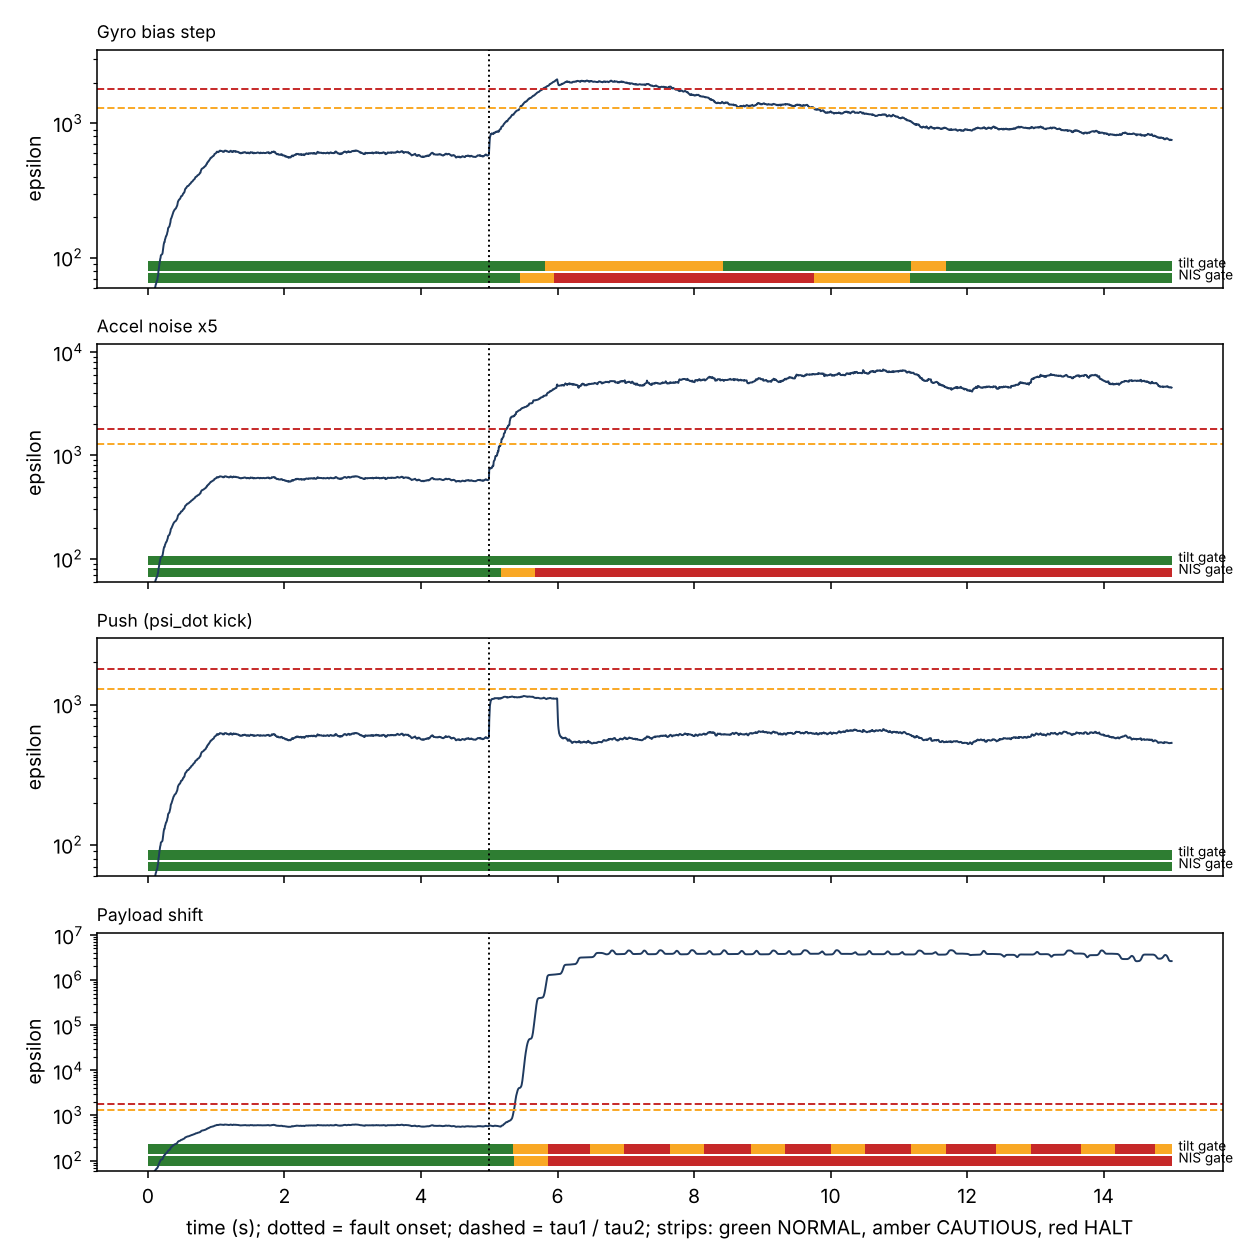
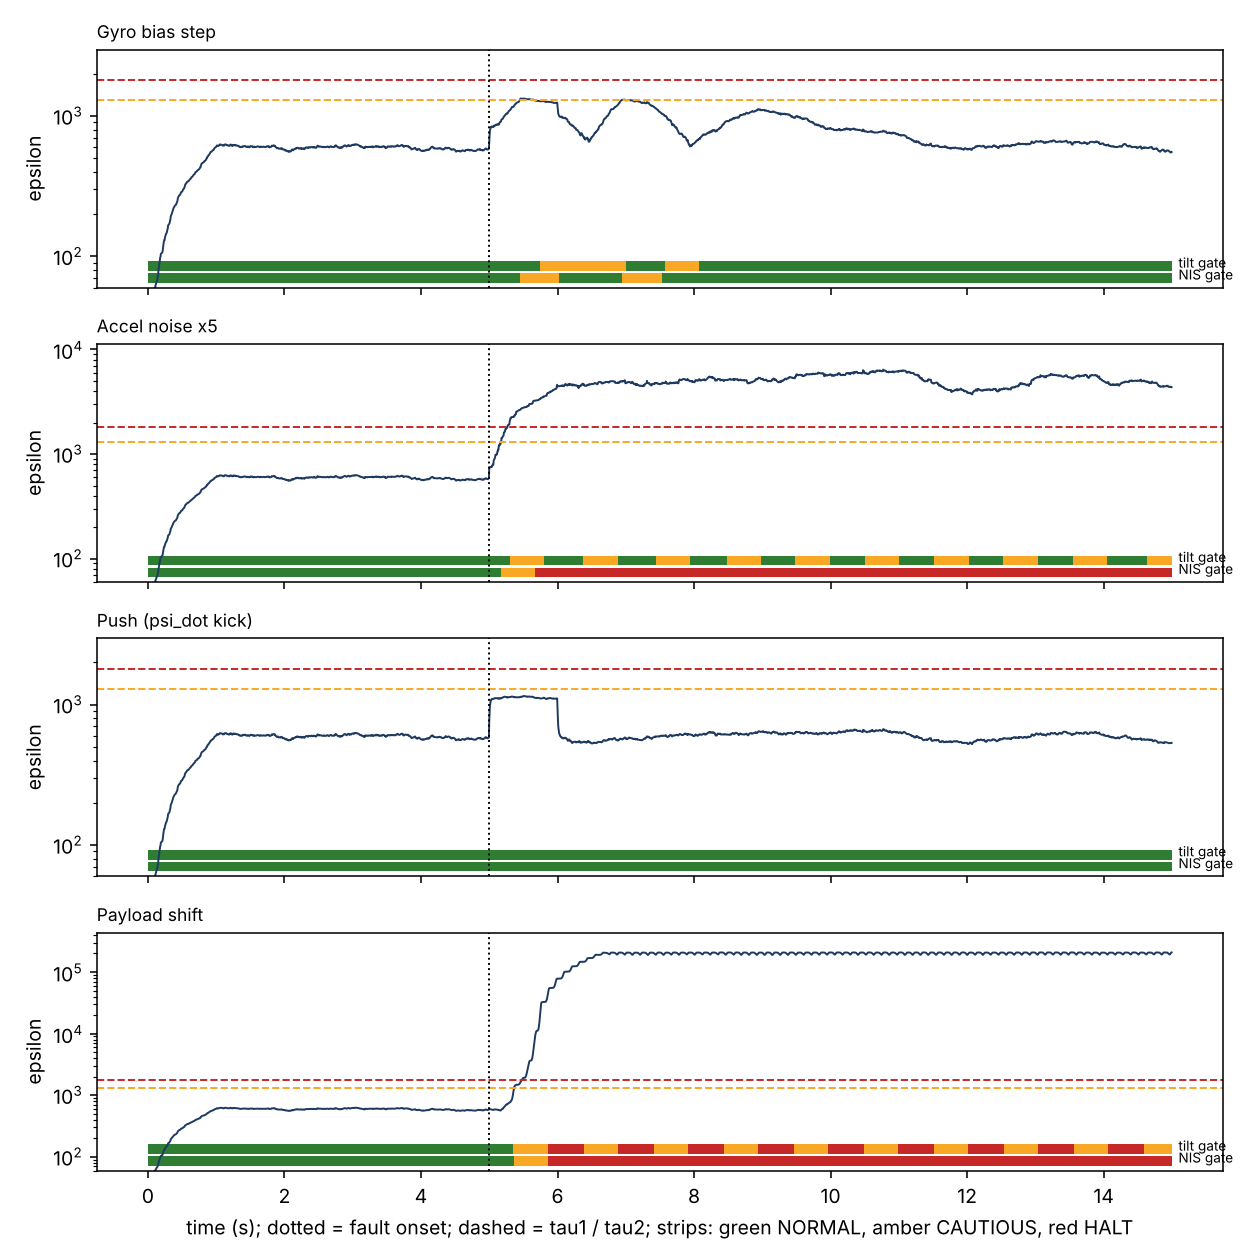
Firmware: survive payload shift via softer HALT gains + KF Q inflation; retarget ESP32-S3
Claude-Session: https://claude.ai/code/session_01JodAvshEbjjGA2GQJRYdMz

diff --git a/firmware/include/echo_core.hpp b/firmware/include/echo_core.hpp
@@ -22,6 +22,7 @@ constexpr int NY = 3;  // [theta_enc, psi_dot_gyro, psi_acc]
 struct Kalman {
   double x[NX] = {0, 0, 0, 0, 0};
   double P[NX * NX];
+  double q_scale = 1.0;  // process-noise inflation (fallback: trust sensors over the model)
 
   Kalman() {
     for (int i = 0; i < NX * NX; ++i) P[i] = ECHO_P0[i];
@@ -43,7 +44,7 @@ struct Kalman {
       }
     for (int i = 0; i < NX; ++i)
       for (int j = 0; j < NX; ++j) {
-        double s = ECHO_Q[i * NX + j];
+        double s = q_scale * ECHO_Q[i * NX + j];
         for (int k = 0; k < NX; ++k) s += AP[i * NX + k] * ECHO_AD[j * NX + k];
         Pn[i * NX + j] = s;
       }
@@ -285,9 +286,12 @@ struct Sim {
     tilt_gate.step(kf.x[1]);
     if (std::fabs(robot.x[1]) > ECHO_FALL_PSI) fallen = true;  // motors off on fall only
     // Gate -> control (CLAUDE.md section 10): NORMAL full speed, CAUTIOUS x0.4 with the
-    // softer-Q gain set, HALT speed 0 (keeps balancing in place). Uses the estimate x_hat.
+    // softer-Q gain set, HALT speed 0 (keeps balancing in place, softer gains). Uses the estimate x_hat.
     const Mode m = nis_gate.mode;
-    const double *K5 = (m == Mode::CAUTIOUS) ? ECHO_K5_CAUTIOUS : ECHO_K5_NOMINAL;
+    kf.q_scale = (m == Mode::NORMAL) ? 1.0 : ECHO_FALLBACK_Q_SCALE;  // see FallbackParams
+    // CAUTIOUS and HALT both use the softer-Q gain set: it is stable in the sampled 200 Hz loop on the
+    // nominal AND payload-shifted plants (spectral radius 0.9987 / 0.9993), the nominal set is not (1.0082).
+    const double *K5 = (m == Mode::NORMAL) ? ECHO_K5_NOMINAL : ECHO_K5_CAUTIOUS;
     speed_ref = (m == Mode::NORMAL) ? ECHO_SPEED_REF_NOMINAL
               : (m == Mode::CAUTIOUS ? ECHO_SPEED_REF_NOMINAL * ECHO_CAUTIOUS_SPEED_SCALE : 0.0);
     const double e[5] = {kf.x[0] - theta_ref, kf.x[1], kf.x[2] - speed_ref, kf.x[3], z_int};

diff --git a/tests/test_firmware_core.py b/tests/test_firmware_core.py
@@ -119,7 +119,7 @@ def test_gate_mode_changes_the_control(scenarios_bin):
     """Section 10 gate -> control: NORMAL tracks the nominal speed ref, HALT commands 0
     while the robot keeps balancing (does not fall)."""
     ref = default_run_params().corridor_theta_dot_ref_nominal
-    d = _scenario(scenarios_bin, "gyro_bias", 1)
+    d = _scenario(scenarios_bin, "accel_noise", 1)
     t, mode, speed_ref = d[:, 0], d[:, 3], d[:, 8]
     assert np.allclose(speed_ref[mode == 0], ref)
     halt = mode == 2
@@ -127,3 +127,17 @@ def test_gate_mode_changes_the_control(scenarios_bin):
     assert d[:, 7].max() == 0, "HALT must keep balancing, not fall"
     # wheels actually follow the reference in NORMAL (true theta_dot, last 2 s before onset)
     assert abs(d[(t > 3) & (t < 5), 9].mean() - ref) < 0.5 * ref
+
+
+@pytest.mark.parametrize("seed", [1, 2, 3, 4, 5])
+def test_payload_shift_is_detected_and_survived(scenarios_bin, seed):
+    """Payload shift (true plant M+1.0 kg, L+0.1 m, nominal KF): the nominal-model estimator
+    destabilises the loop, the gate trips before tilt reaches 1 deg, and the fallback
+    (softer gains + inflated KF Q, FallbackParams) keeps the robot upright."""
+    d = _scenario(scenarios_bin, "payload", seed)
+    t, mode = d[:, 0], d[:, 3]
+    hit = np.nonzero((mode > 0) & (t >= 5.0))[0]
+    assert len(hit) and t[hit[0]] - 5.0 < 1.0
+    assert abs(d[:hit[0] + 1, 5]).max() < np.deg2rad(1.0), "gate must trip before tilt is visible"
+    assert d[:, 7].max() == 0, "robot must not fall"
+    assert abs(d[:, 5]).max() < np.deg2rad(15.0)

diff --git a/sim/params.py b/sim/params.py
@@ -414,3 +414,24 @@ def default_speed_servo_params_cautious() -> SpeedServoParams:
     "Design decision 5" for the full pole comparison.
     """
     return SpeedServoParams(Q_theta=0.2, Q_psi=200.0, Q_theta_dot=0.2, Q_psi_dot=0.2, Q_integral=2.0, R=1e2)
+
+
+@dataclass(frozen=True)
+class FallbackParams:
+    """Estimator behaviour once the NIS gate leaves NORMAL (firmware).
+
+    The KF always uses the nominal model (CLAUDE.md section 8), so under a
+    plant mismatch such as the payload shift its estimate-based feedback
+    loop goes unstable even though true-state feedback is stable. On leaving
+    NORMAL the KF process noise Q is multiplied by q_inflation so it trusts
+    the sensors over its (now wrong) model. Empirical: x10 recovers (max
+    |psi| ~9.7 deg), x100 recovers (~6.9 deg), x1000 and above overshoot and
+    fall -- see firmware/README.md. Used by firmware only; sim/run.py does
+    not apply it yet.
+    """
+
+    q_inflation: float
+
+
+def default_fallback_params() -> FallbackParams:
+    return FallbackParams(q_inflation=100.0)

diff --git a/firmware/src/main.cpp b/firmware/src/main.cpp
@@ -1,4 +1,4 @@
-// Echo Balancer -- Wokwi firmware: NIS confidence gate on an ESP32.
+// Echo Balancer -- Wokwi firmware: NIS confidence gate on an ESP32-S3.
 //
 // Runs the Kalman filter + NIS + NORMAL/CAUTIOUS/HALT gate (and the tilt
 // baseline gate) at 200 Hz. The "robot" is a virtual one (echo::VirtualRobot:
@@ -17,10 +17,10 @@
 #include "echo_core.hpp"
 
 // ---- Pin map (matches firmware/diagram.json) ------------------------------
-static const int PIN_SDA = 21, PIN_SCL = 22;
-static const int PIN_LED_NORMAL = 25, PIN_LED_CAUTIOUS = 26, PIN_LED_HALT = 27;
-static const int PIN_BUZZER = 14;
-static const int PIN_ENC_CLK = 18, PIN_ENC_DT = 19;
+static const int PIN_SDA = 8, PIN_SCL = 9;  // ESP32-S3 default I2C0
+static const int PIN_LED_NORMAL = 4, PIN_LED_CAUTIOUS = 5, PIN_LED_HALT = 6;
+static const int PIN_BUZZER = 7;
+static const int PIN_ENC_CLK = 15, PIN_ENC_DT = 16;
 
 // ---- MPU6050 (the MPU6050 half of the GY-87) ------------------------------
 static const uint8_t MPU_ADDR = 0x68, MPU_PWR_MGMT_1 = 0x6B, MPU_ACCEL_XOUT_H = 0x3B;

diff --git a/firmware/include/echo_params.h b/firmware/include/echo_params.h
@@ -24,6 +24,7 @@ static const double ECHO_PUSH_KICK = 0.1;  // rad/s psi_dot kick
 static const double ECHO_GYRO_BIAS_STEP = 0.05;  // rad/s
 static const double ECHO_ACCEL_NOISE_MULT = 5.0;
 static const double ECHO_SPEED_REF_NOMINAL = 0.3;  // rad/s wheel-speed reference in NORMAL
+static const double ECHO_FALLBACK_Q_SCALE = 100.0;  // KF Q multiplier outside NORMAL
 // Row-major.  x = [theta, psi, theta_dot, psi_dot, b_g]; y = [theta_enc, psi_dot_gyro, psi_acc]
 static const double ECHO_AD[25] = {1, -0.0033805431039577909, 0.0035893013138028683, 0.001404457403861505, 0, 0, 1.0025315884032229, 0.00068011121046463959, 0.0043244004439597274, 0, 0, -1.0919227229836423, 0.52783408476605143, 0.46878537212999133, 0, 0, 0.88732250043257888, 0.22768554168137237, 0.77484604672185031, 0, 0, 0, 0, 0, 1};
 static const double ECHO_BD[5] = {0.0013711305405045896, -0.00066103503230831068, 0.45892231480543144, -0.22129927736179625, 0};

diff --git a/firmware/tools/gen_params_header.py b/firmware/tools/gen_params_header.py
@@ -21,6 +21,7 @@ from sim.estimator import (
 from sim.params import (
     default_disturbance_params,
     default_estimator_params,
+    default_fallback_params,
     default_gate_params,
     default_lqr_balance_params,
     default_plant_params,
@@ -77,6 +78,7 @@ def main() -> None:
         f"static const double ECHO_GYRO_BIAS_STEP = {dp.gyro_bias_fault_magnitude!r};  // rad/s",
         f"static const double ECHO_ACCEL_NOISE_MULT = {dp.accel_noise_fault_multiplier!r};",
         f"static const double ECHO_SPEED_REF_NOMINAL = {rp.corridor_theta_dot_ref_nominal!r};  // rad/s wheel-speed reference in NORMAL",
+        f"static const double ECHO_FALLBACK_Q_SCALE = {default_fallback_params().q_inflation!r};  // KF Q multiplier outside NORMAL",
         "// Row-major.  x = [theta, psi, theta_dot, psi_dot, b_g]; y = [theta_enc, psi_dot_gyro, psi_acc]",
         arr("ECHO_AD", Ad),
         arr("ECHO_BD", Bd),

diff --git a/firmware/README.md b/firmware/README.md
@@ -4,8 +4,8 @@ What this is: the **gate** (Kalman filter -> NIS -> windowed epsilon -> NORMAL/C
 What it is **not**: a balancing demo. Wokwi has no rigid-body physics, so the robot is a *virtual* one inside the firmware (`echo::VirtualRobot`: the nominal **linear** plant driven by the LQR motor command, with process noise = Q). It is valid near upright only. The balance LQR gain, KF matrices, noise levels and gate thresholds are **generated from `sim/params.py`** (`include/echo_params.h`), never hand-copied.
 
 ## Run it
-1. Build: `cd firmware && pio run` (PlatformIO, `espressif32@6.9.0`).
-2. Open the folder in VS Code with the Wokwi extension (`wokwi.toml` + `diagram.json`), or paste `diagram.json` + `src/main.cpp` + `include/*` into a wokwi.com ESP32 project.
+1. Build: `cd firmware && pio run` (PlatformIO, `espressif32@6.9.0`, board `esp32-s3-devkitc-1`).
+2. Open the folder in VS Code with the Wokwi extension (`wokwi.toml` + `diagram.json`), or paste `diagram.json` + `src/main.cpp` + `include/*` into a wokwi.com **ESP32-S3** project.
 3. Open the serial monitor (115200). CSV columns: `t_s,nis,eps,nis_mode,tilt_mode,psi_deg,psi_hat_deg,u_V,fallen`.
 
 Regenerate constants after any change to `sim/params.py`: `PYTHONPATH=. uv run python firmware/tools/gen_params_header.py` (a test fails if the header is stale).
@@ -21,11 +21,12 @@ Regenerate constants after any change to `sim/params.py`: `PYTHONPATH=. uv run p
 | Wheel slip (encoder offset) | KY-040 knob |
 | Clear | serial `r` |
 
-LEDs: green NORMAL, yellow CAUTIOUS, red HALT (+ buzzer = the HALT flag). The mode also drives the control (CLAUDE.md section 10): the speed-servo LQR tracks a wheel-speed reference of 0.3 rad/s in NORMAL, x0.4 with the softer-Q gain set in CAUTIOUS, and 0 in HALT (keeps balancing in place). Same gains and reference as `sim/run.py`, generated from `sim/params.py`.
+LEDs: green NORMAL, yellow CAUTIOUS, red HALT (+ buzzer = the HALT flag). The mode also drives the control (CLAUDE.md section 10): the speed-servo LQR tracks a wheel-speed reference of 0.3 rad/s in NORMAL, x0.4 with the softer-Q gain set in CAUTIOUS, and 0 in HALT (keeps balancing in place, also on the softer gains). On leaving NORMAL the KF process noise Q is also inflated x100 (`FallbackParams` in `sim/params.py`). Same gains and reference as `sim/run.py`, generated from `sim/params.py`.
 
 Step-by-step first-run instructions: [WOKWI_GUIDE.md](WOKWI_GUIDE.md). Gate comparison plot: `docs/firmware_gate_comparison.png` (regenerate with `PYTHONPATH=. uv run python analysis/plot_firmware_gate.py`).
 
 ## Hardware mapping / caveats
+- **ESP32-S3 pin map** (GPIO 26-32 are flash/PSRAM and 25 does not exist on the S3): I2C SDA 8 / SCL 9, LEDs 4/5/6 (green/yellow/red), buzzer 7, KY-040 CLK 15 / DT 16.
 - TB6612FNG and the GY-87's HMC5883L have no Wokwi part; only the MPU6050 half is wired. Motor voltage is printed (`u_V`) instead of driving a motor.
 - Encoder CPR = 360 is still a `PLACEHOLDER` (CLAUDE.md 6.2).
 - **Not yet run in Wokwi or built for the ESP32** by the author of this change (the sandbox blocks the PlatformIO registry and Wokwi). `src/main.cpp` was only syntax-checked against Arduino stubs; `diagram.json` pin names (`D21`, `GND.1`, ...) follow the `wokwi-esp32-devkit-v1` convention but are unverified. The filter/gate core *is* verified (below).
@@ -35,4 +36,7 @@ Step-by-step first-run instructions: [WOKWI_GUIDE.md](WOKWI_GUIDE.md). Gate comp
 - Nominal 60 s x 3 seeds (speed servo on): no mode change; mean NIS ~3.0 (chi2(3) mean = 3); max epsilon <= 701 vs tau1 = 1300.
 - At onset t = 5 s (seeds 1-3): gyro bias step -> detected 0.46-0.49 s; accel noise x5 -> 0.11-0.17 s; accel tilt 0.1 rad -> 0.11-0.14 s. In every case HALT zeroes the speed reference and the robot keeps balancing (does not fall).
 - The tilt-threshold baseline misses accel noise entirely and reacts late to gyro bias (see the plot): this is the NIS gate's advantage.
-- **Not detected / honest limits:** the 0.1 rad/s push is **not** detected on any of 3 seeds (epsilon peaks ~1150 < tau1 = 1300 for ~1 s). A payload shift is flagged within 0.3-0.4 s (HALT), but the nominal LQR cannot stabilise the heavier plant, so the virtual robot still falls in 3 of 3 seeds: the gate sees the mismatch but HALT cannot fix an unstable closed loop.
+- Payload shift (10 seeds): detected 10/10 within 0.3-0.4 s, **before tilt reaches 1 deg**, and the robot is **not** lost (worst max |psi| 7.0 deg, 0/10 falls). Nominal 10 seeds: 0 false alarms.
+- **Why payload needed a fallback (corrects an earlier wrong claim that "the LQR can't stabilise it"):** with true-state feedback the heavier plant is stable under the nominal gains (max tilt 0.19 deg). What goes unstable is the *estimate-based* loop, because the KF keeps the nominal model by design (CLAUDE.md section 8). Also, the nominal speed-servo gain is marginal in the sampled 200 Hz loop on that plant (spectral radius 1.0082) while the softer set is stable (0.9993). So on leaving NORMAL the firmware uses the softer gains in both CAUTIOUS and HALT and inflates Q x100 so the KF trusts the sensors over its wrong model. Q x10 and x100 recover; x1000+ overshoot and fall.
+- **Not detected / honest limits:** the 0.1 rad/s push is **not** detected on any of 10 seeds (epsilon peaks ~1150 < tau1 = 1300 for ~1 s); the robot recovers by itself. With Q inflation the gyro-bias step now lands in CAUTIOUS and returns to NORMAL once the KF has absorbed the bias, instead of staying in HALT.
+- **Python parity:** `sim/run.py` still uses the nominal gain in HALT and no Q inflation (step-6 "Design decision 6"). The fallback is firmware-only for now; the batch metrics in Python are unchanged.

diff --git a/firmware/WOKWI_GUIDE.md b/firmware/WOKWI_GUIDE.md
@@ -4,7 +4,7 @@ You need: a web browser. A free wokwi.com account is optional for this.
 
 ## A. Create the project
 1. Go to https://wokwi.com and click **Start from scratch** (or "New Project").
-2. Choose **ESP32**, then **Arduino-ESP32** (a plain blank sketch).
+2. Choose **ESP32-S3**, then **Arduino-ESP32** (a plain blank sketch).
 3. You now see tabs: `sketch.ino`, `diagram.json`, and a "Library Manager". Leave this window open.
 
 ## B. Add the code files
@@ -27,7 +27,7 @@ Click inside the serial monitor box, then type one letter (no Enter needed on mo
 10. `g` -> gyro bias fault. Within ~0.5 s the LED goes yellow, then **red** and the buzzer beeps. Type `g` again to switch off, `r` to clear all.
 11. `a` -> accel noise x5: goes red within ~0.2 s. `r` to clear. (Note `nis_mode` vs `tilt_mode` columns: the tilt gate stays NORMAL, ours reacts.)
 12. `p` -> a push. Honest expectation: probably **no** mode change (known limit).
-13. `m` -> payload shift: goes red, `fallen` becomes 1. `r` to clear.
+13. `m` -> payload shift: goes red/yellow, but `fallen` stays 0 and `psi_deg` stays under ~7 degrees (the fallback keeps it upright). `r` to clear.
 14. Click the **MPU6050** part and drag its **accelerometer X** slider away from its start value: it counts as a sensor fault, LED goes red. Move it back and wait ~10 s to recover.
 15. Click the **KY-040** knob and turn it: encoder (wheel slip) offset.
 
@@ -36,4 +36,7 @@ Click inside the serial monitor box, then type one letter (no Enter needed on mo
 17. Click **Save** (needs the free login) and copy the project URL to cite in the report.
 
 ## F. Optional: run it locally (VS Code)
-Install VS Code, the PlatformIO and Wokwi extensions, open the `firmware/` folder, run `pio run`, then press F1 -> "Wokwi: Start Simulator" (free license via the prompt).
+Install VS Code, the PlatformIO and Wokwi extensions, open the `firmware/` folder, run `pio run` (board `esp32-s3-devkitc-1`), then press F1 -> "Wokwi: Start Simulator" (free license via the prompt).
+
+## If the S3 board part errors
+The diagram uses `wokwi-esp32-s3-devkitc-1` with pins named by GPIO number (`esp:8`, `esp:9`, `esp:4` ...). If Wokwi reports an unknown pin, send me the exact message; the pin map is in `firmware/README.md`.

diff --git a/project-context/DECISIONS.md b/project-context/DECISIONS.md
@@ -365,3 +365,6 @@ source actually states them — no speculation.
 
 ## 2026-10-08 — Wokwi firmware lives in `firmware/` (user-approved scope addition)
 Wokwi isn't in CLAUDE.md's stack/layout; the user explicitly approved adding a C++/PlatformIO `firmware/` dir. Scope = **the gate on ESP32** (KF + NIS + both gates), not balancing or wall-following. Reason: Wokwi has no physics, so the robot is a virtual linear plant inside the firmware (a still-sensor Wokwi setup trips the gate by itself because the KF predicts LQR corrections that never appear in the sensors — tried first, rejected). All numerics come from `sim/params.py` via `firmware/tools/gen_params_header.py`; `tests/test_firmware_core.py` pins C++ == Python.
+
+## 2026-10-08 — Firmware fallback: softer gains in HALT + KF Q x100 outside NORMAL; target is ESP32-S3
+Payload-shift run fell in the firmware. Root cause (verified numerically, *not* "LQR can't stabilise"): true-state feedback is stable on the payload plant; the nominal-model KF in the loop is what destabilises it, and the nominal K5 is also marginal in the sampled loop (rho 1.0082 vs 0.9993 for the cautious set). Fix, firmware only: HALT uses the cautious gain set (CLAUDE.md §10 only requires "keep balancing"); KF Q x `FallbackParams.q_inflation` (=100, `sim/params.py`) outside NORMAL. x10/x100 recover, x1000+ fall. `sim/run.py` NOT changed (still nominal gain in HALT, step-6 decision 6) — Python batch metrics unchanged. Board is ESP32-S3 (user's choice): GPIO 25-27 don't exist there, so pins are SDA8/SCL9, LEDs 4/5/6, buzzer 7, encoder 15/16.

diff --git a/project-context/CURRENT_STATE.md b/project-context/CURRENT_STATE.md
@@ -297,3 +297,4 @@ step if quantum work is deferred further.
 ## 2026-10-08 — Wokwi firmware (extra, off the §14 build order)
 `firmware/` (PlatformIO + `diagram.json` + `wokwi.toml`): ESP32 runs KF+NIS+gates at 200 Hz against a virtual linear robot; faults via MPU6050 sliders, KY-040 knob, serial keys. Host-verified vs Python (`tests/test_firmware_core.py`, 14 tests; full suite 140 pass). **Not yet built for ESP32 or run in Wokwi** (sandbox blocks PlatformIO/Wokwi); `main.cpp` only syntax-checked against stubs, `diagram.json` pin names unverified. See `firmware/README.md`. Steps 7 (qubo) and 8 (plots/animate) remain next.
 Update (same day): firmware now closes the gate->control loop (speed-servo LQR, NORMAL 0.3 rad/s / CAUTIOUS x0.4 softer gains / HALT 0, gains generated from params). Push is detected 0/3 seeds; payload shift is flagged but the nominal LQR can't stabilise it (falls 3/3). `analysis/plot_firmware_gate.py` -> `docs/firmware_gate_comparison.png`; matplotlib added to pyproject. Beginner run guide: `firmware/WOKWI_GUIDE.md`. Still unverified in real Wokwi.
+Update 2: target board ESP32-S3 (pins re-mapped). Payload shift now detected 10/10 and survived 10/10 in the firmware (softer HALT gains + KF Q x100, `FallbackParams`); earlier "LQR can't stabilise it" claim was wrong and is corrected in `firmware/README.md`. 146 tests pass. Still not run in real Wokwi.

diff --git a/project-context/OPEN_PROBLEMS.md b/project-context/OPEN_PROBLEMS.md
@@ -88,3 +88,6 @@ actually checking.
   walls, per §9's own "cut wall-following first if behind schedule" spirit)
   has nothing ahead to trigger it via a genuine head-on obstacle in the closed
   loop — only heading-drift-toward-a-side-wall exercises it indirectly.
+
+## 2026-10-08 — Python sim vs firmware fallback (confirmed divergence)
+Confirmed: `sim/run.py` HALT uses nominal K5 and no KF Q inflation; firmware uses cautious K5 + Q x100. Suspected (not tested): the Python nonlinear sim would show the same payload-shift benefit; porting the fallback to `sim/run.py` is needed before any paper claim that spans both. Also confirmed: 0.1 rad/s push is never detected in the firmware (0/10 seeds).
